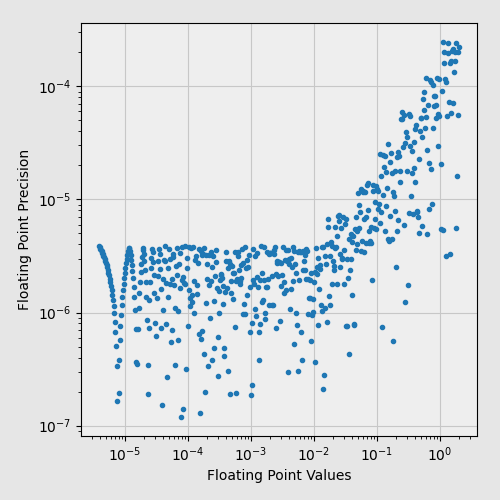
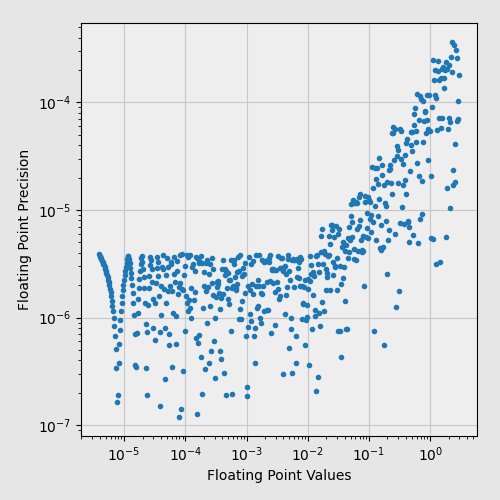
base 3 exponent (2 bits)

diff --git a/conversion.go b/conversion.go
@@ -47,12 +47,13 @@ func (t *Type) UseIntegerDelta(last uint16, delta int) uint16 {
 // Implementation:
 
 type xConstants struct {
-	xMask               uint16
-	xSize               int
-	minExponent         int
-	maxExponent         int
-	twoPowerMinExponent float64
-	twoPowerMaxExponent float64
+	xMask                uint16
+	xSize                int
+	minExponent          int
+	maxExponent          int
+	base3                bool
+	basePowerMinExponent float64
+	basePowerMaxExponent float64
 }
 
 type settings struct {
@@ -65,34 +66,37 @@ type settings struct {
 
 func x4() xConstants {
 	return xConstants{
-		xMask:               0b1111,
-		xSize:               4,
-		minExponent:         -8,
-		maxExponent:         -8 + 15,
-		twoPowerMinExponent: 1.0 / 256.0,
-		twoPowerMaxExponent: 128.0,
+		xMask:                0b1111,
+		xSize:                4,
+		minExponent:          -8,
+		maxExponent:          -8 + 15,
+		base3:                false,
+		basePowerMinExponent: 1.0 / 256.0,
+		basePowerMaxExponent: 128.0,
 	}
 }
 
 func x3() xConstants {
 	return xConstants{
-		xMask:               0b111,
-		xSize:               3,
-		minExponent:         -6,
-		maxExponent:         -6 + 7,
-		twoPowerMinExponent: 1.0 / 64.0,
-		twoPowerMaxExponent: 2.0,
+		xMask:                0b111,
+		xSize:                3,
+		minExponent:          -6,
+		maxExponent:          -6 + 7,
+		base3:                false,
+		basePowerMinExponent: 1.0 / 64.0,
+		basePowerMaxExponent: 2.0,
 	}
 }
 
 func x2() xConstants {
 	return xConstants{
-		xMask:               0b11,
-		xSize:               2,
-		minExponent:         -3,
-		maxExponent:         0,
-		twoPowerMinExponent: 1.0 / 8.0,
-		twoPowerMaxExponent: 1.0,
+		xMask:                0b11,
+		xSize:                2,
+		minExponent:          -3,
+		maxExponent:          0,
+		base3:                true,
+		basePowerMinExponent: 1.0 / 27.0,
+		basePowerMaxExponent: 1.0,
 	}
 }
 
@@ -137,36 +141,41 @@ func encode(value float64, settings *settings) uint16 {
 		return 0x0
 	}
 
-	a := settings.xc.twoPowerMinExponent
-	reversedB := 1.0 - a
+	a := settings.xc.basePowerMinExponent
+	reversedC := 1.0 - a
 
 	if value >= 0 {
-		return encodeInnerValue(value*reversedB+a, settings)
+		return encodeInnerValue(value*reversedC+a, settings)
 	} else if 0b0 == settings.minus {
 		return 0x0
 	} else {
-		return settings.minus | encodeInnerValue(-value*reversedB+a, settings)
+		return settings.minus | encodeInnerValue(-value*reversedC+a, settings)
 	}
 }
 
 func decode(tf uint16, settings *settings) float64 {
 
 	exponentOffset := -settings.xc.minExponent
-	a := settings.xc.twoPowerMinExponent
-	reversedB := 1.0 - a
-	b := 1.0 / reversedB
+	a := settings.xc.basePowerMinExponent
+	reversedC := 1.0 - a
+	c := 1.0 / reversedC
 
 	xShift, xMask := settings.xShift, settings.xc.xMask
 	mMask, mSize := settings.mMask, settings.mSize
 
 	x := int((tf>>xShift)&xMask) - exponentOffset
 
-	significand := 1.0 + float64(tf&mMask)/powerOfTwo(mSize)
-	characteristic := powerOfTwo(x)
+	significand := float64(tf&mMask) / powerOfTwo(mSize)
+	if settings.xc.base3 {
+		significand *= 2.0
+	}
+	significand += 1.0
 
-	r := significand * characteristic
+	scale := getScale(settings, x)
 
-	return (r - a) * b * sign(tf, settings.minus)
+	r := significand * scale
+
+	return (r - a) * c * sign(tf, settings.minus)
 }
 
 func sign(x uint16, minus uint16) float64 {
@@ -186,7 +195,15 @@ func encodeInnerValue(inner float64, s *settings) uint16 {
 	maxValue := (xMask << xShift) | mMask
 
 	twoPowerM := powerOfTwo(mSize)
-	internalMaximum := (1 + (twoPowerM-1)/twoPowerM) * s.xc.twoPowerMaxExponent
+	mMax := twoPowerM - 1.0
+
+	internalMaximum := mMax / twoPowerM
+	if s.xc.base3 {
+		internalMaximum *= 2.0
+	}
+	internalMaximum += 1.0
+	internalMaximum *= s.xc.basePowerMaxExponent
+
 	if inner >= internalMaximum {
 		return maxValue
 	}
@@ -194,11 +211,15 @@ func encodeInnerValue(inner float64, s *settings) uint16 {
 	x := getExponent(inner, s)
 	binaryExponent := uint16(x+exponentOffset) << xShift
 
-	characteristic := powerOfTwo(x)
-	normalized := inner / characteristic
+	scale := getScale(s, x)
+	normalized := inner / scale
 
-	mFloat := (normalized - 1.0) * twoPowerM
-	mMax := twoPowerM - 1.0
+	mFloat := normalized - 1.0
+	if s.xc.base3 {
+		mFloat *= 0.5
+	}
+	mFloat *= twoPowerM
+
 	binarySignificand := uint16(math.Min(math.Round(mFloat), mMax))
 
 	return binarySignificand | binaryExponent
@@ -208,10 +229,16 @@ func getExponent(innerValue float64, s *settings) int {
 	modulus := math.Abs(innerValue)
 
 	eps := 0.5 / powerOfTwo(s.mSize)
-	factor := 2.0 - eps
+	var factor float64
+
+	if s.xc.base3 {
+		factor = 3.0 - (2.0 * eps)
+	} else {
+		factor = 2.0 - eps
+	}
 
 	for exp := s.xc.maxExponent; exp > s.xc.minExponent; exp-- {
-		if factor*powerOfTwo(exp-1) <= modulus {
+		if factor*getScale(s, exp-1) <= modulus {
 			return exp
 		}
 	}
@@ -240,6 +267,18 @@ func powerOfTwo(x int) float64 {
 		return 1.0 / float64(int(1)<<-x)
 	} else {
 		return float64(int(1) << x)
+	}
+}
+
+func powerOfThree(x int) float64 {
+	return math.Pow(3.0, float64(x))
+}
+
+func getScale(s *settings, x int) float64 {
+	if s.xc.base3 {
+		return powerOfThree(x)
+	} else {
+		return powerOfTwo(x)
 	}
 }
 

diff --git a/images/formula.tex b/images/formula.tex
@@ -13,7 +13,7 @@
         \\
 
             \vbox{\begin{equation*}
-            f(m, x) = sign \cdot ((1 + \frac{m}{2^{M}}) \cdot 2^{x} - a) \cdot b
+            f(m, x) = sign \cdot ((1 + (b - 1) \frac{m}{2^{M}}) \cdot b^{x} - a) \cdot c
             \end{equation*}}
 
         \\
@@ -25,33 +25,39 @@
         \\
 
             \vbox{\begin{equation*}\tag{4 bits}
-            \{ x \in \mathbb{Z} \mid -8 \leq x \leq 7 \}
+            \{ x \in \mathbb{Z} \mid -8 \leq x \leq 7 \},
+            \quad
+            b = 2
             \end{equation*}}
 
         \\
 
             \vbox{\begin{equation*}\tag{3 bits}
-            \{ x \in \mathbb{Z} \mid -6 \leq x \leq 1 \}
+            \{ x \in \mathbb{Z} \mid -6 \leq x \leq 1 \},
+            \quad
+            b = 2
             \end{equation*}}
 
         \\
 
             \vbox{\begin{equation*}\tag{2 bits}
-            \{ x \in \mathbb{Z} \mid -3 \leq x \leq 0 \}
+            \{ x \in \mathbb{Z} \mid -3 \leq x \leq 0 \},
+            \quad
+            b = 3
             \end{equation*}}
 
         \\
 
             \vbox{\begin{equation*}
-            a = (1 + \frac{0}{2^{M}}) \cdot 2^{\min{X}}
+            a = (1 + \frac{0}{2^{M}}) \cdot b^{\min{X}}
             \quad \quad
-            a = 2^{\min{X}}
+            a = b^{\min{X}}
             \end{equation*}}
 
         \\
 
             \vbox{\begin{equation*}
-            b = \frac{1}{1 - a}
+            c = \frac{1}{1 - a}
             \end{equation*}}
 
         \\

diff --git a/images/plot.py b/images/plot.py
@@ -112,11 +112,11 @@ def make_comparison(result_fn):
     values, precision = get_comparison_data('precision14.tsv')
     plt.plot(values, precision, '-', label='14')
 
+    values, precision = get_comparison_data('precision15x2.tsv', minPowerX10=-17, maxPowerX10=5)
+    plt.plot(values, precision, '-', color='tab:pink', label='15x2')
+
     values, precision = get_comparison_data('precision15x3.tsv', minPowerX10=-20, maxPowerX10=8)
     plt.plot(values, precision, '-', label='15x3')
-
-    values, precision = get_comparison_data('precision15x2.tsv', minPowerX10=-9, maxPowerX10=3)
-    plt.plot(values, precision, '-', color='tab:pink', label='15x2')
 
 #     values, precision = get_comparison_data('precision16u.tsv')
 #     plt.plot(values, precision, '-', label='16u')
@@ -134,8 +134,8 @@ if __name__ == "__main__":
     make_image('precision12u.tsv', 'precision12u.png')
     make_image('precision13.tsv', 'precision13.png')
     make_image('precision14.tsv', 'precision14.png')
-    make_image('precision15x3.tsv', 'precision15x3.png', 2.0)
-    make_image('precision15x2.tsv', 'precision15x2.png', 2.0)
+    make_image('precision15x3.tsv', 'precision15x3.png', 3.0)
+    make_image('precision15x2.tsv', 'precision15x2.png', 3.0)
     make_image('precision8x3.tsv', 'precision8x3.png')
     make_image('precision4x3u.tsv', 'precision4x3u.png')
     make_image('precision16.tsv', 'precision16.png')

diff --git a/conversion_test.go b/conversion_test.go
@@ -1647,12 +1647,12 @@ func TestReadme(t *testing.T) {
 
 	{
 		tf := toyfloat5x2.Encode(input)
-		if tf != 0b01110 {
+		if tf != 0b01101 {
 			t.Fatalf("Incorrect encoded: %05b (5x2)\n", tf)
 		}
 
 		result := toyfloat5x2.Decode(tf)
-		if math.Abs(result-1.571429) > eps {
+		if math.Abs(result-1.519231) > eps {
 			t.Fatalf("Incorrect decoded: %f (5x2)\n", result)
 		}
 	}

diff --git a/README.md b/README.md
@@ -14,7 +14,7 @@ It has:
 * values, that are in range about:
   * (-256, +256) for 4-bit exponent
   * (-4, +4) for 3-bit exponent
-  * (-2, +2) for 2-bit exponent
+  * (-3, +3) for 2-bit exponent
 
 ![Formula](images/formula.png)
 
@@ -172,9 +172,9 @@ Delta:   0.059063
 
 5-bit signed with 2-bit exponent
 --------------------------------
-Encoded: 0xE
-Decoded: 1.571429
-Delta:   0.004429
+Encoded: 0xD
+Decoded: 1.519231
+Delta:   0.047769
 
 
 Delta encoding (12-bit)
